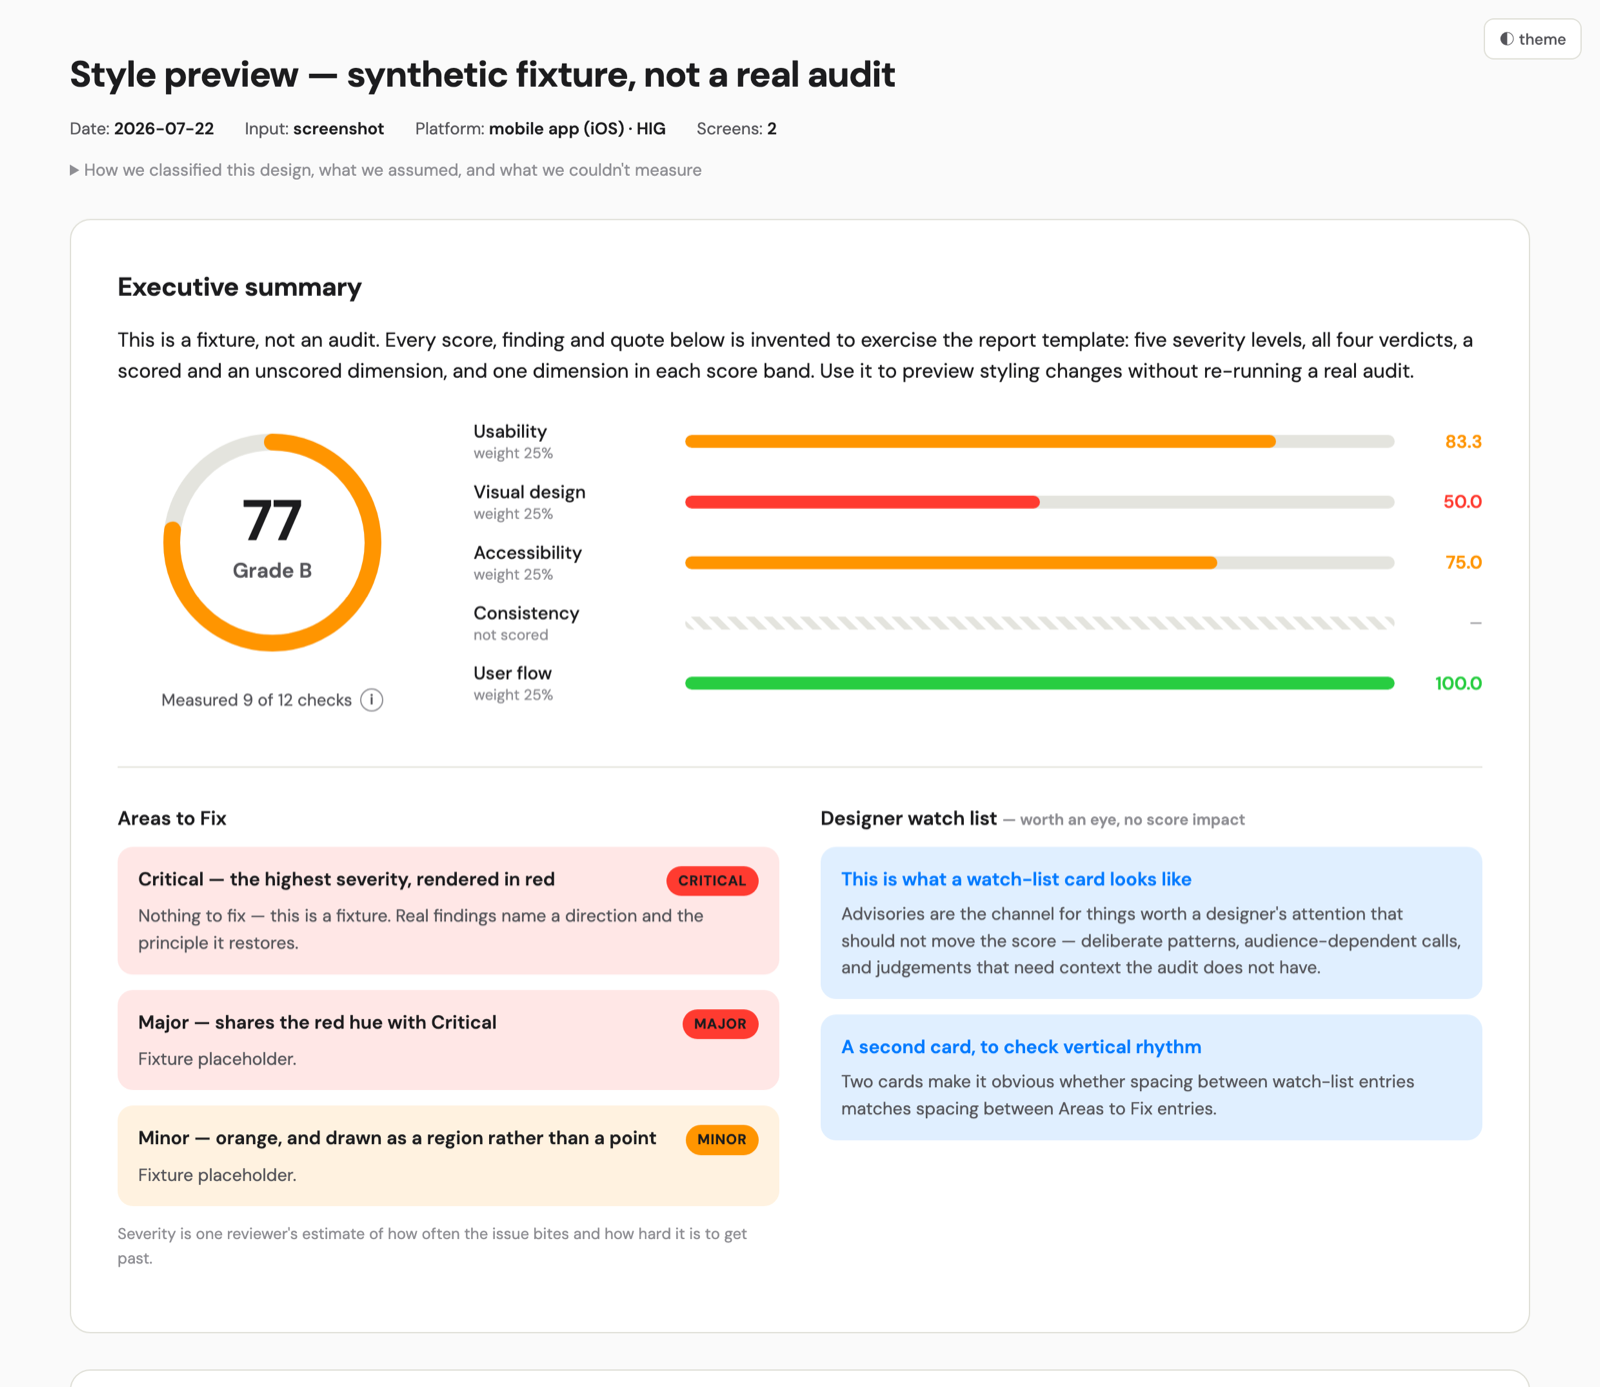
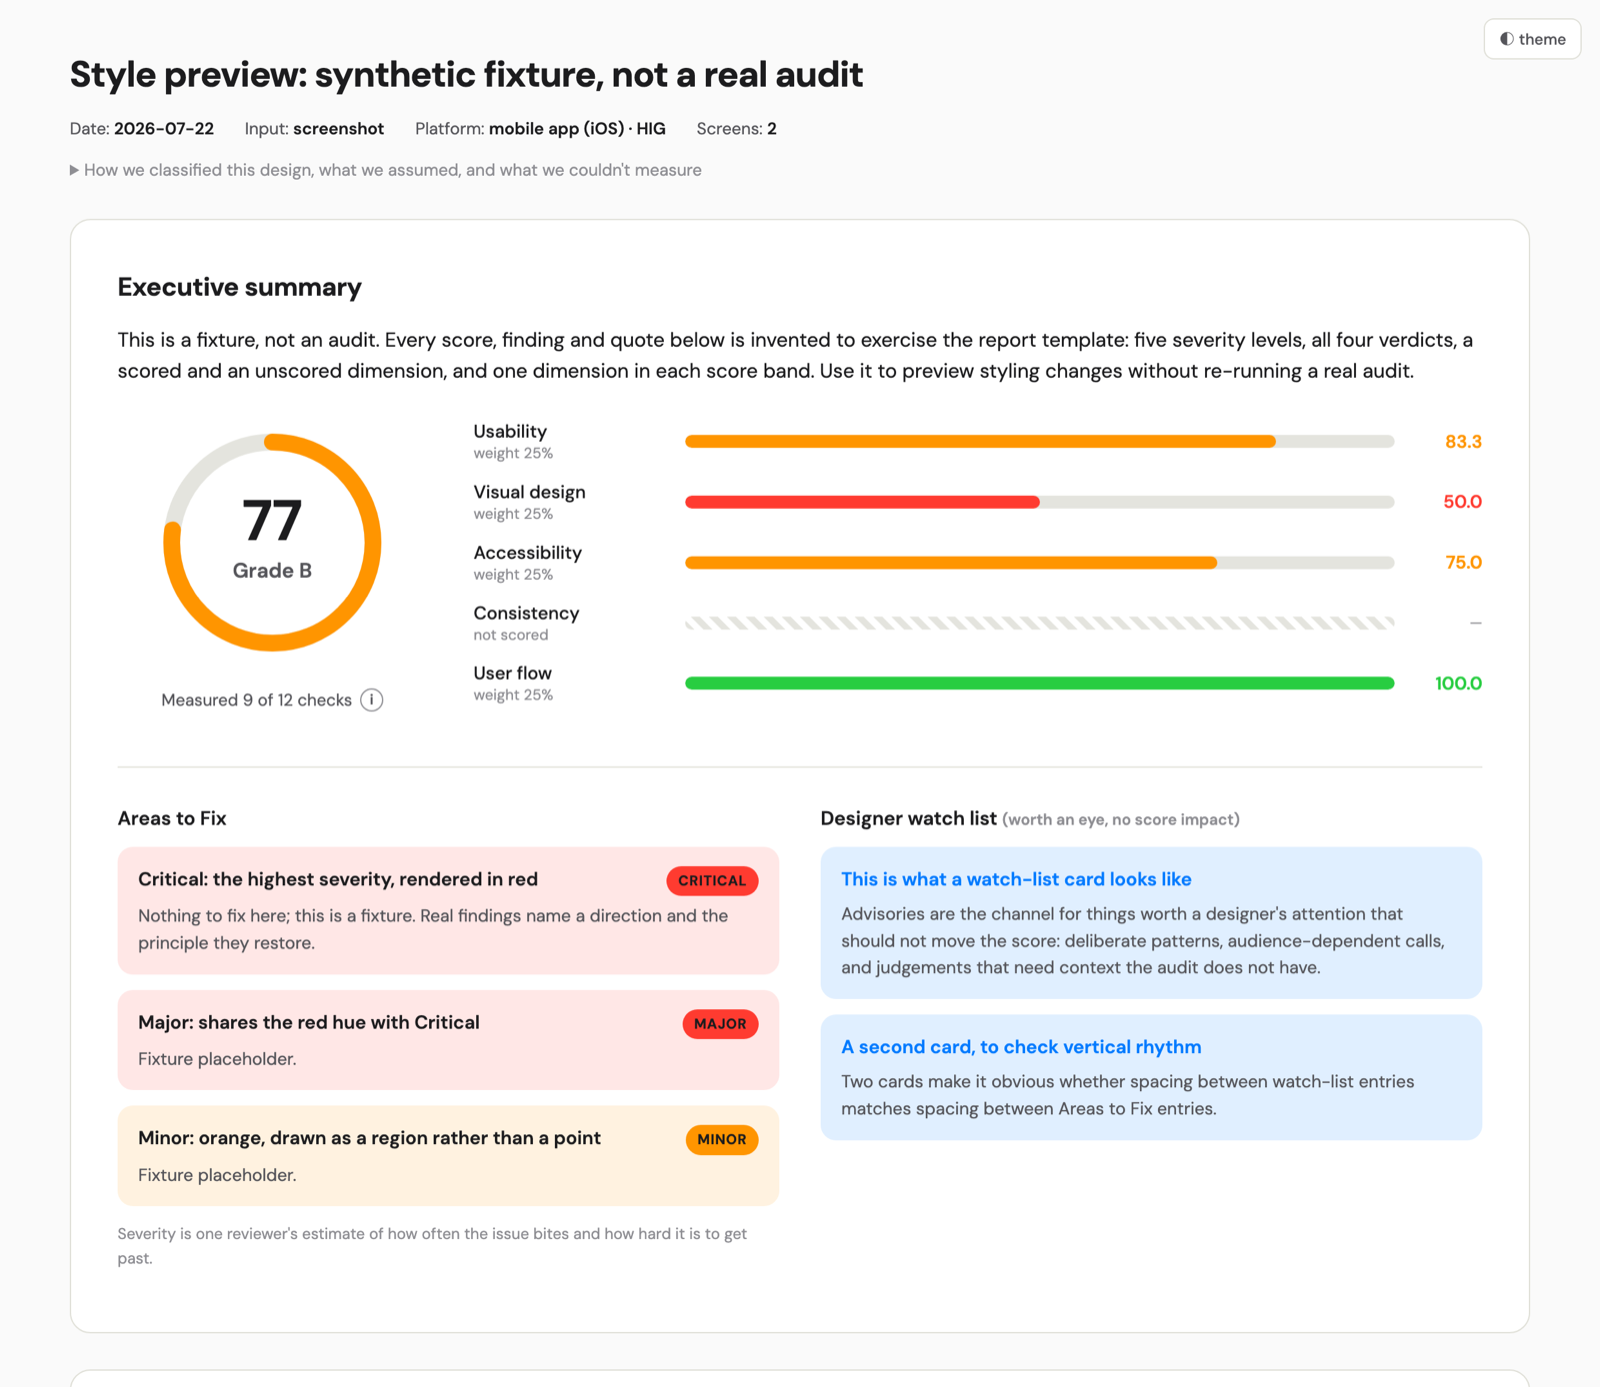
Drop em-dashes from the sample and the report's own boilerplate
The published sample showed the tool using em-dashes ("Critical — the highest
severity", "watch list — worth an eye"), which undercut the report-voice rule.
Cleaned the style-preview fixture text and the template's own chrome (title
suffix, coverage tooltip, watch-list caption, unscored-panel note, classification
signal separator). Remaining em-dashes are code comments and the numeric "no
value" placeholder in an unscored bar, neither of which renders as prose.
Rebuilt docs/sample-report.html and the hero screenshot.

diff --git a/docs/sample-report.html b/docs/sample-report.html
@@ -3,7 +3,7 @@
 <head>
 <meta charset="utf-8">
 <meta name="viewport" content="width=device-width, initial-scale=1">
-<title>Style preview — synthetic fixture, not a real audit — design audit</title>
+<title>Style preview: synthetic fixture, not a real audit · design audit</title>
 <style>
   /* ── Restyling this report ──────────────────────────────────────────────
      Everything visual is in the variables below plus the @font-face.
@@ -210,7 +210,7 @@
 <button class="theme-toggle" id="themeToggle">◐ theme</button>
 <main id="report"></main>
 
[2 lines of base64/hex data omitted]
 <script>
 "use strict";
 if (!document.documentElement.dataset.theme) document.documentElement.dataset.theme = "light";
@@ -246,7 +246,7 @@ const main = document.getElementById("report");
     .forEach(([k, v]) => ul.append($("li", null, `${k}: <b>${esc(v)}</b>`)));
   sec.append(ul);
   const sig = A.platform.screens.map(s =>
-    `<li><b>${esc(s.screenId)}</b> → ${esc(s.bucket)} — ${s.signals.map(esc).join("; ")}</li>`).join("");
+    `<li><b>${esc(s.screenId)}</b> → ${esc(s.bucket)}: ${s.signals.map(esc).join("; ")}</li>`).join("");
   sec.append($("details", "assump",
     `<summary>How we classified this design, what we assumed, and what we couldn't measure</summary>
      <ul>${sig}</ul>
@@ -282,7 +282,7 @@ const main = document.getElementById("report");
   left.append($("div", "coverage",
     `<span>Measured ${applicable} of ${A.scorecard.length} checks</span>
      <span class="info"><button type="button" aria-label="About this score">i</button>
-       <span class="tip" role="tooltip">The remaining checks didn't apply to this input — the scorecard gives a reason for each. Fewer checks means a thinner score, so compare coverage before comparing scores.<br><br>Treat the score as directional: re-runs vary by about ±5 points, so neighbouring grades read the same.</span>
+       <span class="tip" role="tooltip">The remaining checks didn't apply to this input. The scorecard gives a reason for each. Fewer checks means a thinner score, so compare coverage before comparing scores.<br><br>Treat the score as directional: re-runs vary by about ±5 points, so neighbouring grades read the same.</span>
      </span>`));
   cols.append(left);
 
@@ -332,7 +332,7 @@ const main = document.getElementById("report");
   lower.append(fixes);
 
   const watch = $("div");
-  watch.append($("h3", null, `Designer watch list <span class="src">— worth an eye, no score impact</span>`));
+  watch.append($("h3", null, `Designer watch list <span class="src">(worth an eye, no score impact)</span>`));
   if (A.advisories.length) {
     A.advisories.forEach(a => watch.append($("div", "advcard", `<b>${esc(a.title)}</b><p>${esc(a.note)}</p>`)));
   } else {
@@ -473,7 +473,7 @@ const main = document.getElementById("report");
 
     const panel = $("div", "tabpanel" + (idx === 0 ? " active" : ""));
     panel.dataset.tab = dimId;
-    if (dim && !dim.scored) panel.append($("p", "tiny", "Reviewed but not scored for this audit — findings still count, the math doesn't."));
+    if (dim && !dim.scored) panel.append($("p", "tiny", "Reviewed but not scored for this audit: findings still count, the math doesn't."));
     const tb = $("table");
     tb.innerHTML = `<thead><tr><th>ID</th><th>What good looks like</th><th>Source</th><th>Verdict</th><th>Why</th></tr></thead>`;
     const body = $("tbody");

diff --git a/skills/design-audit/assets/report-template.html b/skills/design-audit/assets/report-template.html
@@ -3,7 +3,7 @@
 <head>
 <meta charset="utf-8">
 <meta name="viewport" content="width=device-width, initial-scale=1">
-<title>{{TITLE}} — design audit</title>
+<title>{{TITLE}} · design audit</title>
 <style>
   /* ── Restyling this report ──────────────────────────────────────────────
      Everything visual is in the variables below plus the @font-face.
@@ -246,7 +246,7 @@ const main = document.getElementById("report");
     .forEach(([k, v]) => ul.append($("li", null, `${k}: <b>${esc(v)}</b>`)));
   sec.append(ul);
   const sig = A.platform.screens.map(s =>
-    `<li><b>${esc(s.screenId)}</b> → ${esc(s.bucket)} — ${s.signals.map(esc).join("; ")}</li>`).join("");
+    `<li><b>${esc(s.screenId)}</b> → ${esc(s.bucket)}: ${s.signals.map(esc).join("; ")}</li>`).join("");
   sec.append($("details", "assump",
     `<summary>How we classified this design, what we assumed, and what we couldn't measure</summary>
      <ul>${sig}</ul>
@@ -282,7 +282,7 @@ const main = document.getElementById("report");
   left.append($("div", "coverage",
     `<span>Measured ${applicable} of ${A.scorecard.length} checks</span>
      <span class="info"><button type="button" aria-label="About this score">i</button>
-       <span class="tip" role="tooltip">The remaining checks didn't apply to this input — the scorecard gives a reason for each. Fewer checks means a thinner score, so compare coverage before comparing scores.<br><br>Treat the score as directional: re-runs vary by about ±5 points, so neighbouring grades read the same.</span>
+       <span class="tip" role="tooltip">The remaining checks didn't apply to this input. The scorecard gives a reason for each. Fewer checks means a thinner score, so compare coverage before comparing scores.<br><br>Treat the score as directional: re-runs vary by about ±5 points, so neighbouring grades read the same.</span>
      </span>`));
   cols.append(left);
 
@@ -332,7 +332,7 @@ const main = document.getElementById("report");
   lower.append(fixes);
 
   const watch = $("div");
-  watch.append($("h3", null, `Designer watch list <span class="src">— worth an eye, no score impact</span>`));
+  watch.append($("h3", null, `Designer watch list <span class="src">(worth an eye, no score impact)</span>`));
   if (A.advisories.length) {
     A.advisories.forEach(a => watch.append($("div", "advcard", `<b>${esc(a.title)}</b><p>${esc(a.note)}</p>`)));
   } else {
@@ -473,7 +473,7 @@ const main = document.getElementById("report");
 
     const panel = $("div", "tabpanel" + (idx === 0 ? " active" : ""));
     panel.dataset.tab = dimId;
-    if (dim && !dim.scored) panel.append($("p", "tiny", "Reviewed but not scored for this audit — findings still count, the math doesn't."));
+    if (dim && !dim.scored) panel.append($("p", "tiny", "Reviewed but not scored for this audit: findings still count, the math doesn't."));
     const tb = $("table");
     tb.innerHTML = `<thead><tr><th>ID</th><th>What good looks like</th><th>Source</th><th>Verdict</th><th>Why</th></tr></thead>`;
     const body = $("tbody");
